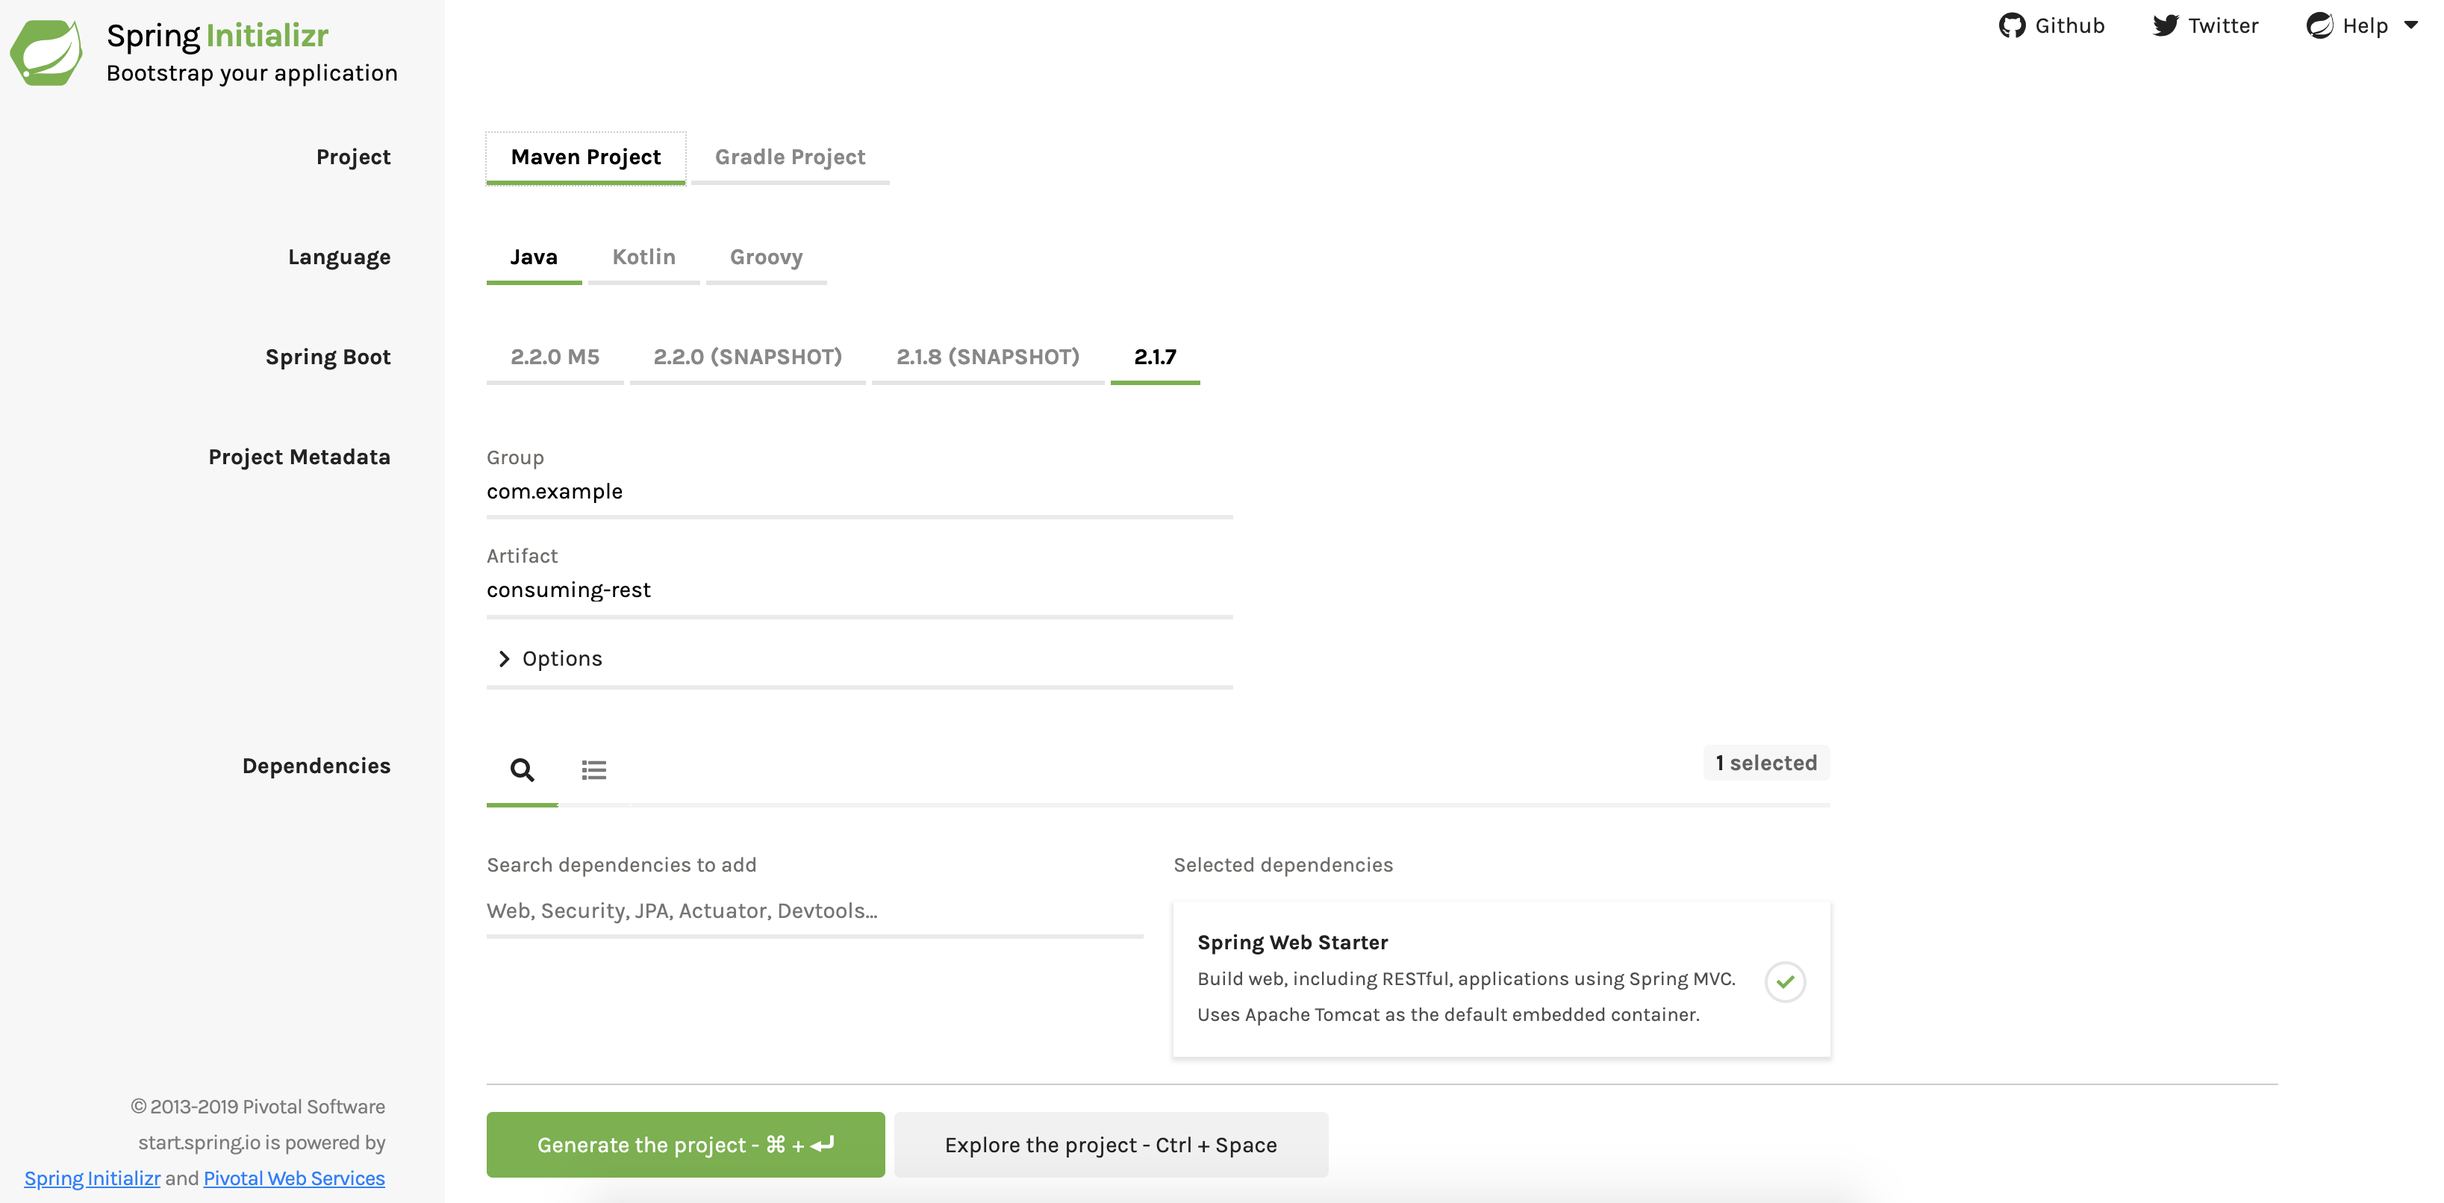
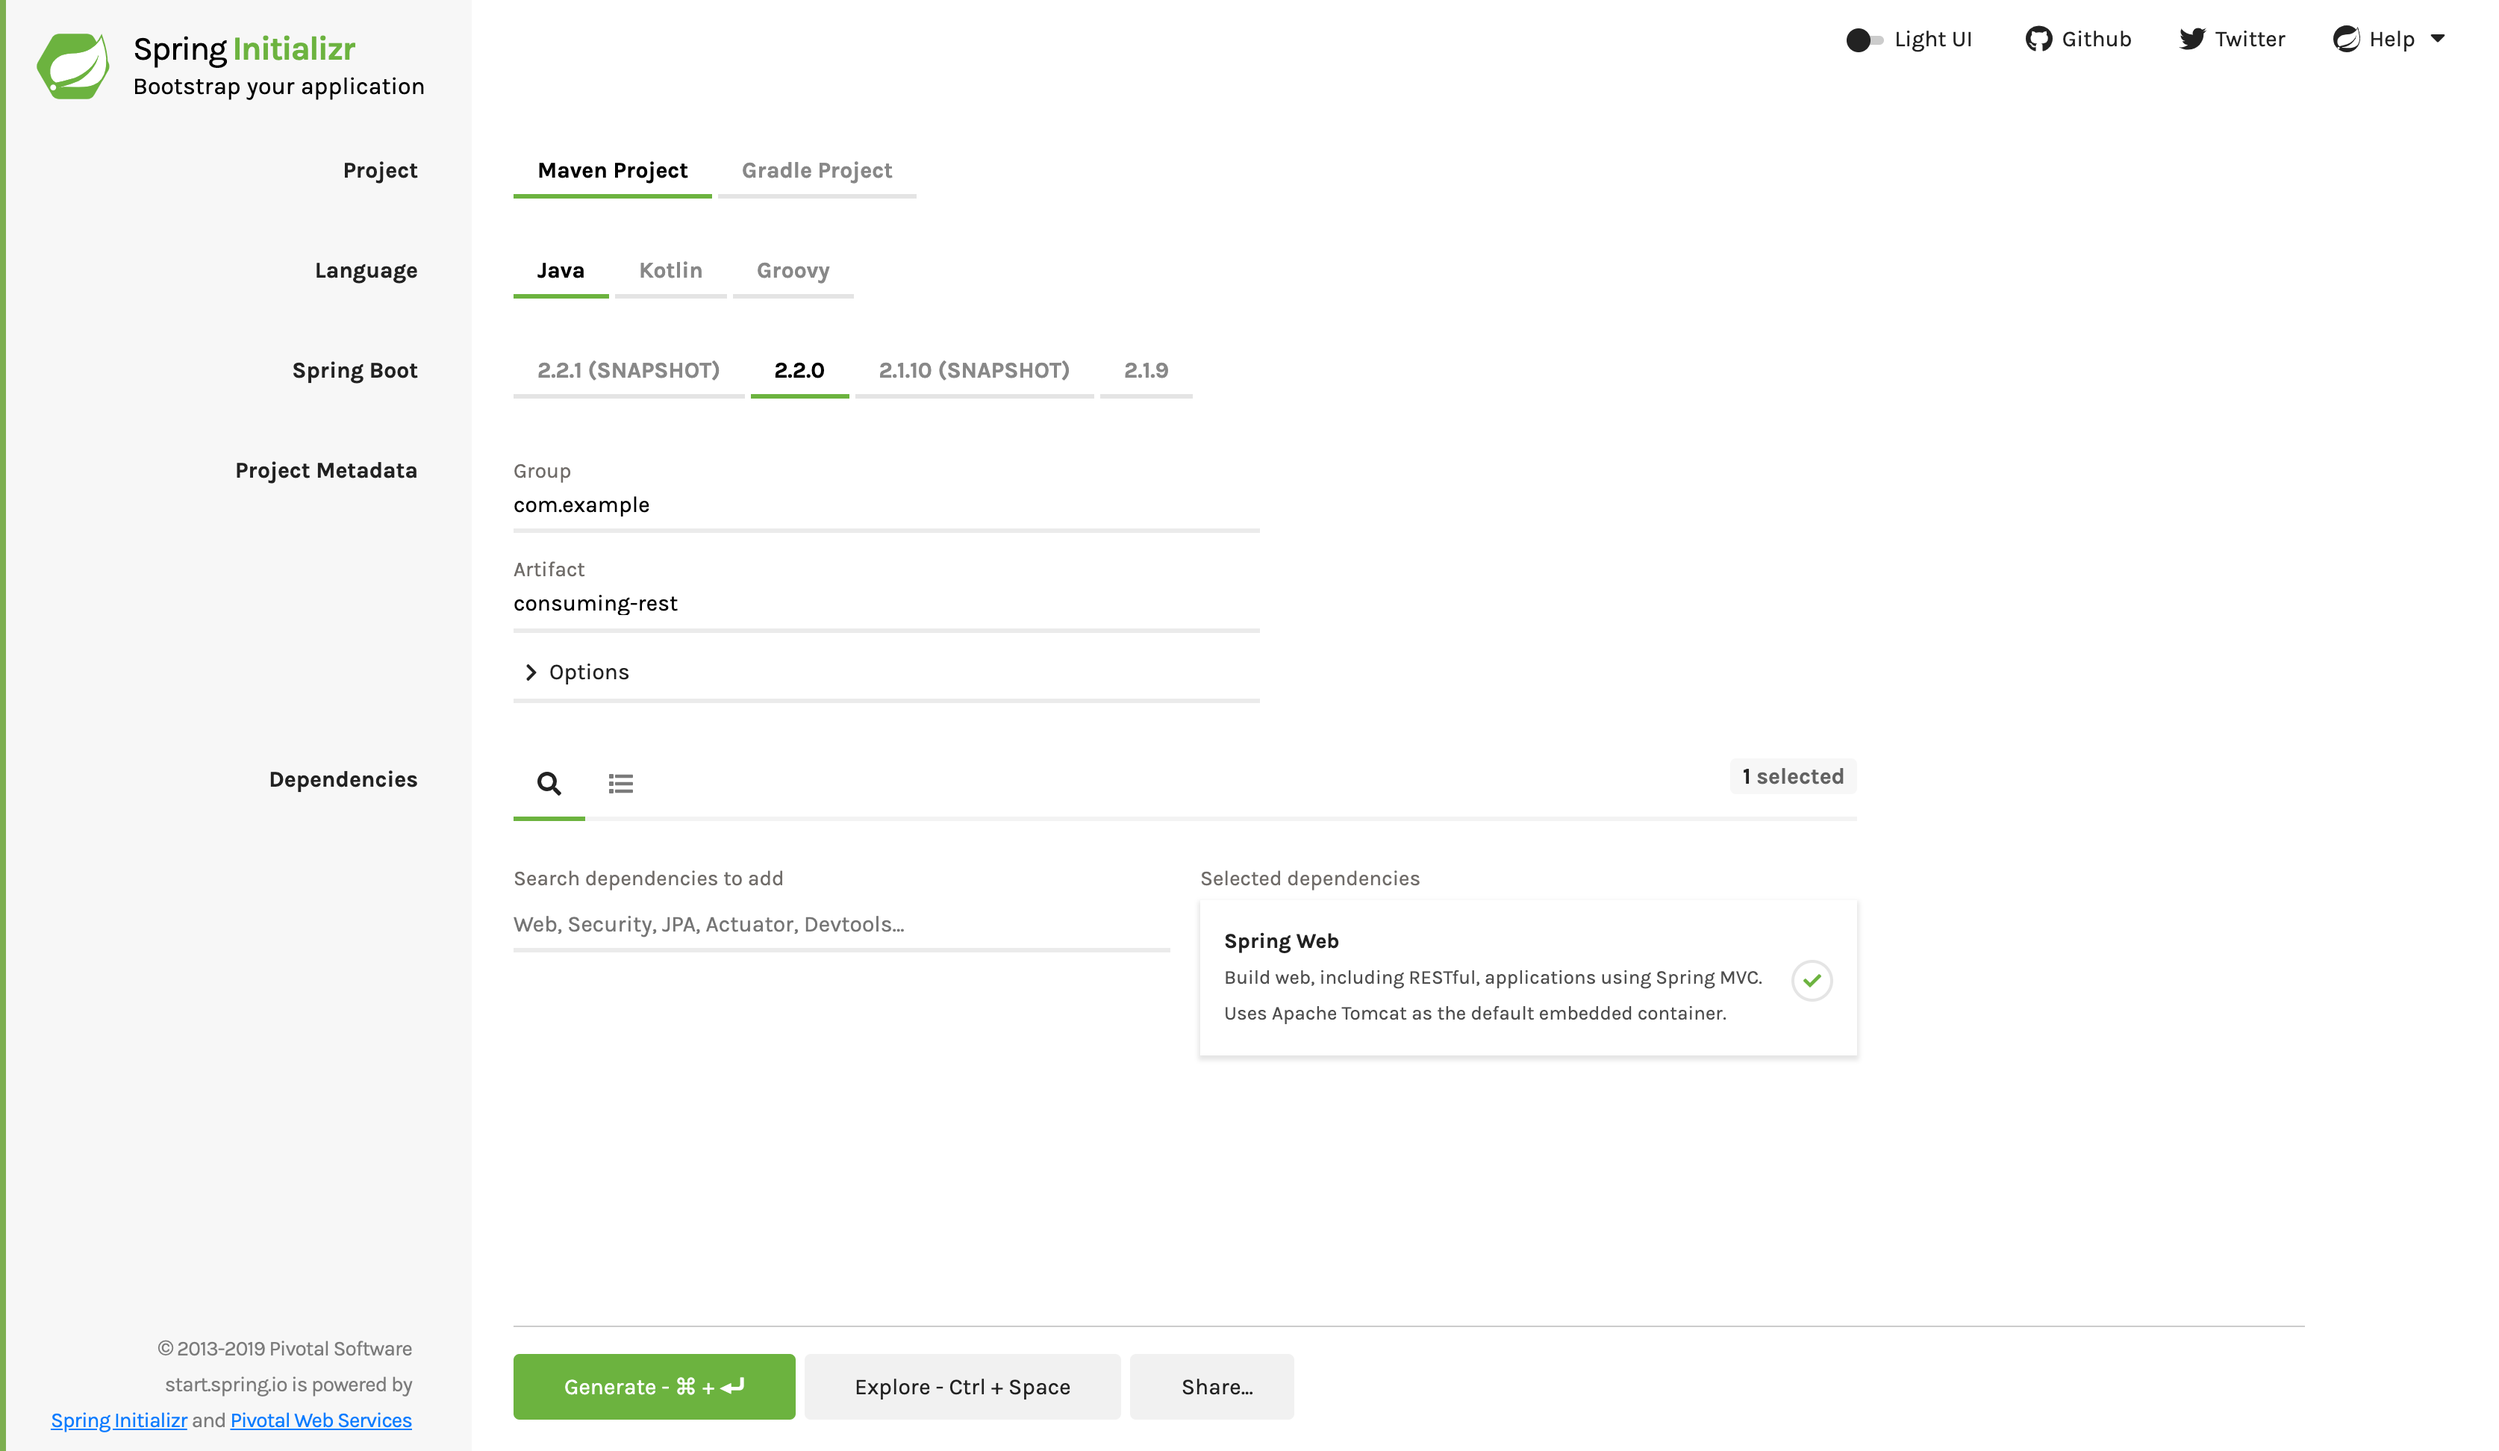
Upgraded to Spring Boot 2.2
I upgraded the build files to Spring Boot 2.2.0, which necessitated changing the tests to use JUnit 5 and replacing the Gradle wrappers. I also noticed that I hadn't change the package of the /complete test path, so I did that, too.

diff --git a/initial/src/main/java/com/example/consumingrest/ConsumingRestApplication.java b/initial/src/main/java/com/example/consumingrest/ConsumingRestApplication.java
@@ -1,13 +1,7 @@
 package com.example.consumingrest;
 
-import org.slf4j.Logger;
-import org.slf4j.LoggerFactory;
-import org.springframework.boot.CommandLineRunner;
 import org.springframework.boot.SpringApplication;
 import org.springframework.boot.autoconfigure.SpringBootApplication;
-import org.springframework.boot.web.client.RestTemplateBuilder;
-import org.springframework.context.annotation.Bean;
-import org.springframework.web.client.RestTemplate;
 
 @SpringBootApplication
 public class ConsumingRestApplication {
@@ -15,4 +9,5 @@ public class ConsumingRestApplication {
 	public static void main(String[] args) {
 		SpringApplication.run(ConsumingRestApplication.class, args);
 	}
+
 }

diff --git a/complete/src/test/java/com/example/consumingrest/ConsumingRestApplicationTest.java b/complete/src/test/java/com/example/consumingrest/ConsumingRestApplicationTest.java
@@ -18,17 +18,15 @@ package com.example.consumingrest;
 
 import static org.assertj.core.api.Assertions.assertThat;
 
-import org.junit.Test;
-import org.junit.runner.RunWith;
+import org.junit.jupiter.api.Test;
+
 import org.springframework.beans.factory.annotation.Autowired;
 import org.springframework.boot.test.context.SpringBootTest;
-import org.springframework.test.context.junit4.SpringRunner;
 import org.springframework.web.client.RestTemplate;
 
-@RunWith(SpringRunner.class)
 @SpringBootTest
-public class ApplicationTest {
-	
+public class ConsumingRestApplicationTest {
+
 	@Autowired
 	private RestTemplate restTemplate;
 

diff --git a/initial/src/test/java/com/example/consumingrest/ConsumingRestApplicationTests.java b/initial/src/test/java/com/example/consumingrest/ConsumingRestApplicationTests.java
@@ -1,0 +1,13 @@
+package com.example.consumingrest;
+
+import org.junit.jupiter.api.Test;
+import org.springframework.boot.test.context.SpringBootTest;
+
+@SpringBootTest
+class ConsumingRestApplicationTests {
+
+	@Test
+	void contextLoads() {
+	}
+
+}
